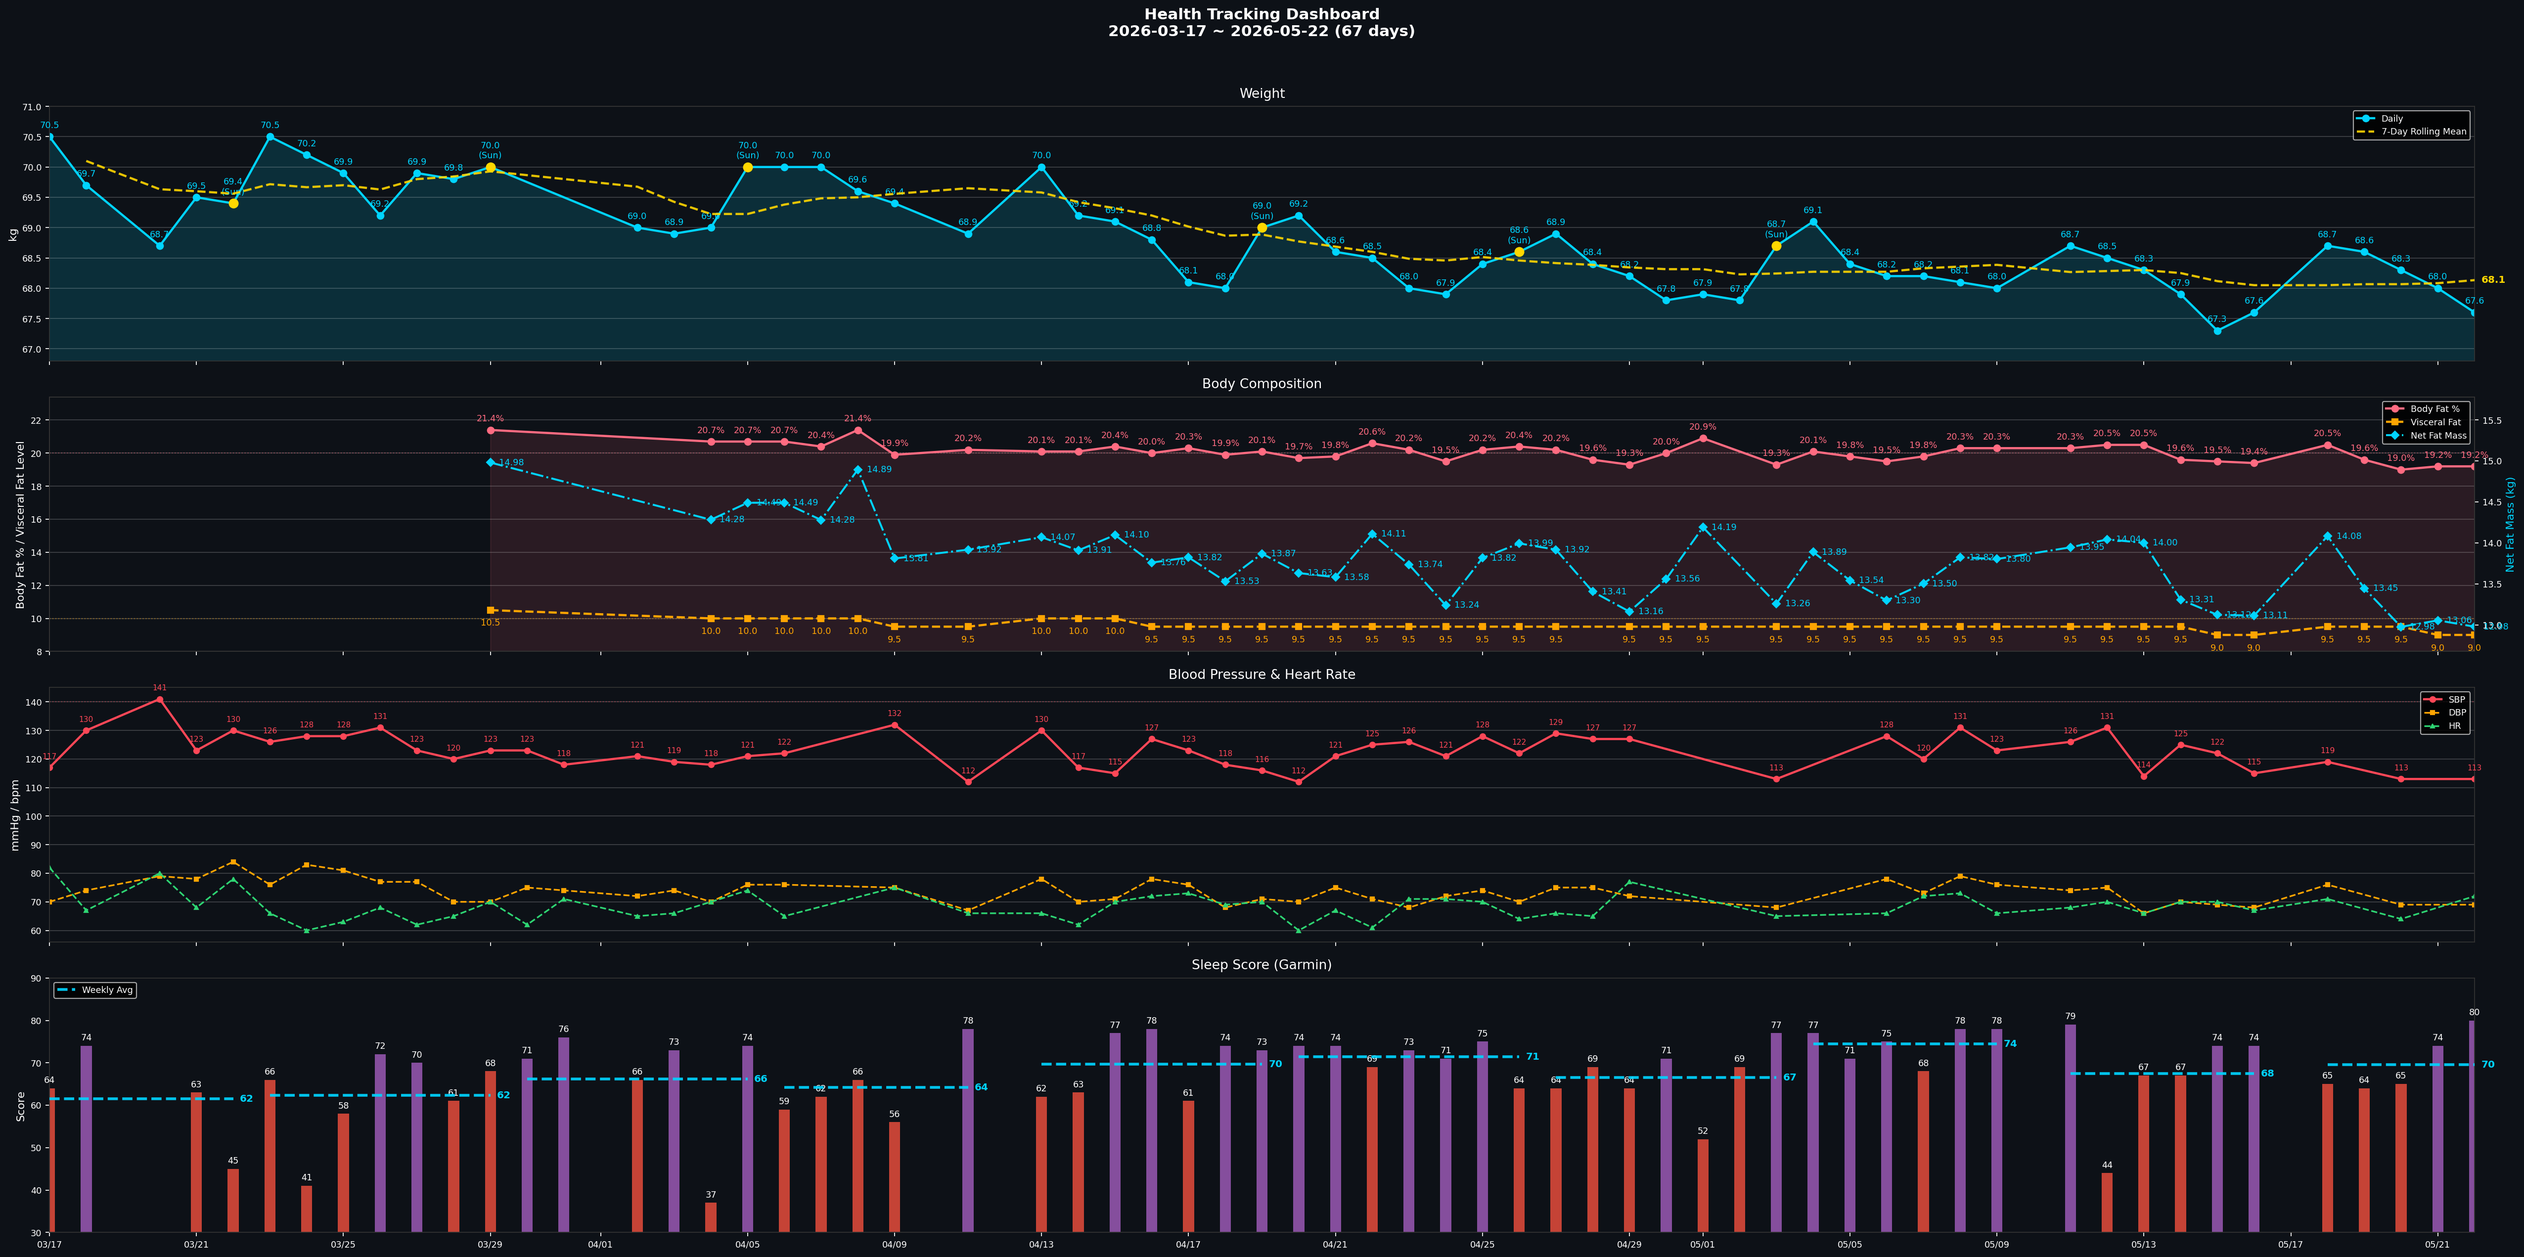
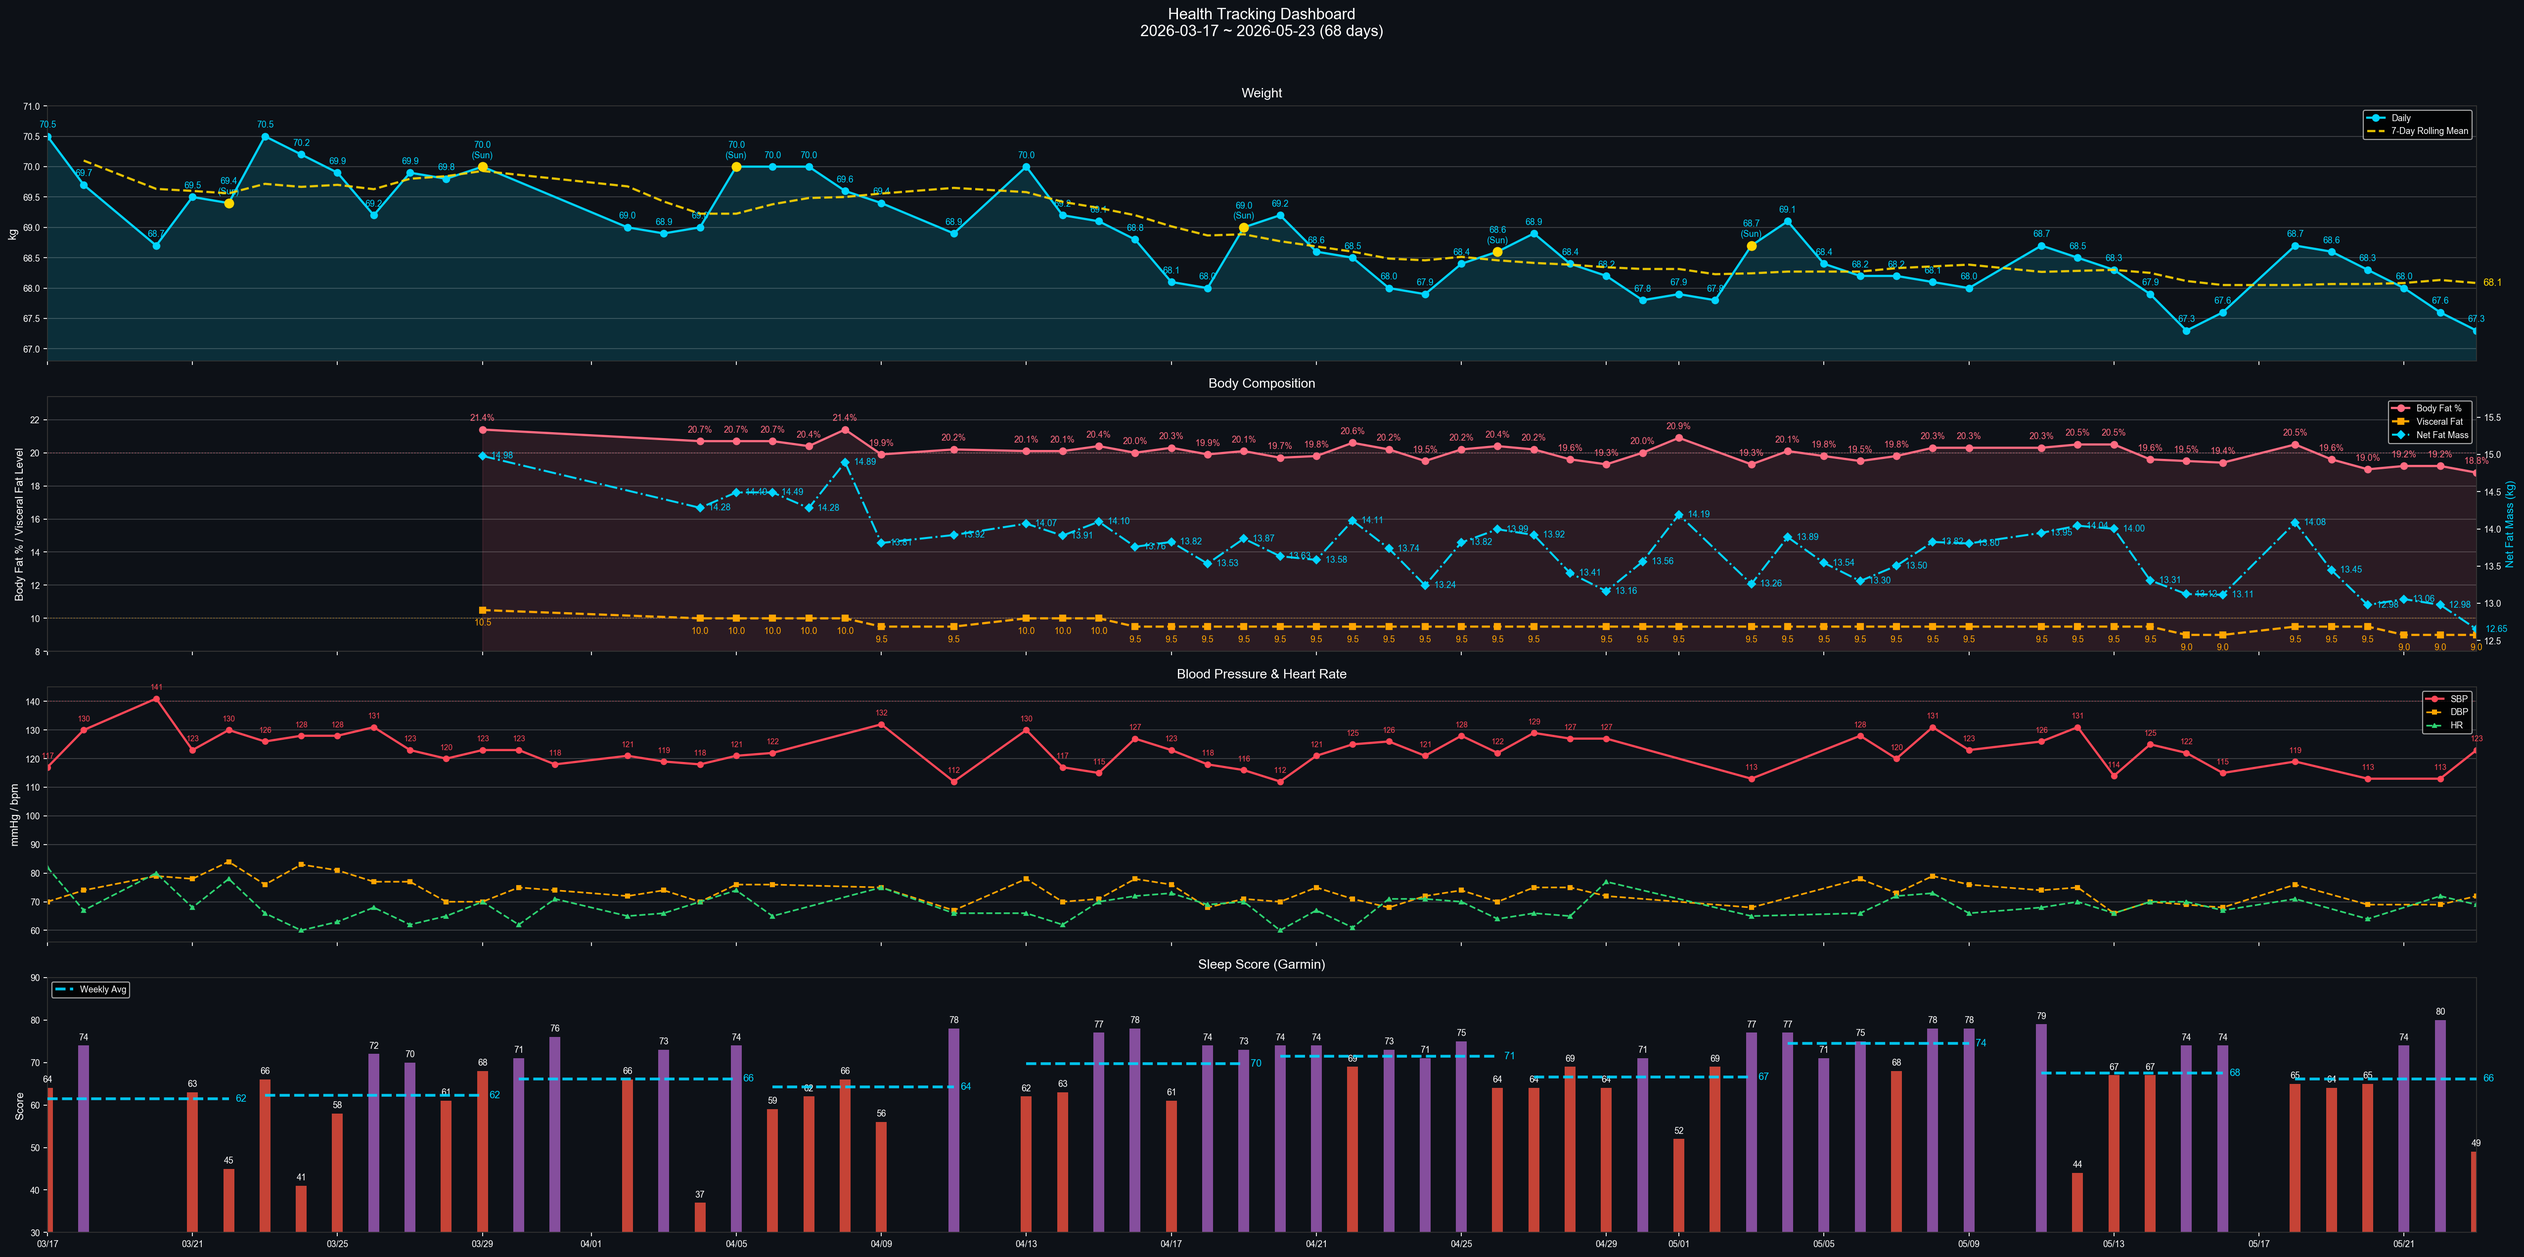
daily health log 2026-05-23

diff --git a/data.js b/data.js
@@ -14,12 +14,12 @@ window.HC_DATA = {
     lede:    { en: "Sleep, BP, lipids, uric acid — one shared metabolic root. Lifestyle stacks first; medication only after lifestyle plateaus.",
                zh: "睡眠、血壓、血脂、尿酸——共享同一個代謝根源。生活方式介入優先，等到效果平台期再考慮藥物。" },
     progressLbl: { en: "Weight progress · 70 → 65 kg", zh: "體重進度 · 70 → 65 公斤" },
-    progressMeta: { en: "Day 67 · 67.6 kg · Sat official (5/16)", zh: "第 67 天 · 67.6 公斤 · 週六正式（5/16）" },
-    startDate: { en: "Start date · Mar 17, 2026 · Last sync 5/22", zh: "起始日期 · 2026 年 3 月 17 日 · 最後同步 5/22" },
+    progressMeta: { en: "Day 68 · 67.3 kg · Sat official (5/23)", zh: "第 68 天 · 67.3 公斤 · 週六正式（5/23）" },
+    startDate: { en: "Start date · Mar 17, 2026 · Last sync 5/23", zh: "起始日期 · 2026 年 3 月 17 日 · 最後同步 5/23" },
     startWeight: 70,
     targetWeight: 65,
-    currentWeight: 67.6,
-    currentWeightDate: "5/16 Sat official",
+    currentWeight: 67.3,
+    currentWeightDate: "5/23 Sat official",
   },
 
   // ===== OSA red-flag banner =====
@@ -44,21 +44,21 @@ window.HC_DATA = {
     {
       sys: "heart", name: { en: "Blood Pressure", zh: "血壓" },
       val: "122/70", unit: "mmHg",
-      delta: { en: "W20 weekly avg (6 days) · target met (<130) · last 113/69 (5/22)", zh: "W20 週均（6 天）· 已達標 (<130) · 最新 113/69 (5/22)" },
+      delta: { en: "W20 weekly avg (6 days) · target met (<130) · last 123/72 (5/23)", zh: "W20 週均（6 天）· 已達標 (<130) · 最新 123/72 (5/23)" },
       cadence: { en: "Daily · weekly avg", zh: "每日 · 週均" },
       status: "ok",
     },
     {
       sys: "sleep", name: { en: "Sleep Score", zh: "睡眠分數" },
-      val: "80", unit: "Garmin",
+      val: "49", unit: "Garmin",
       delta: { en: "5/4 · OSA flag: T90 18.4% (severe)", zh: "5/4 · OSA 紅旗：T90 18.4%（重度）" },
       cadence: { en: "Daily · Garmin", zh: "每日 · Garmin" },
       status: "warn",
     },
     {
       sys: "weight", name: { en: "Weight", zh: "體重" },
-      val: "67.6", unit: "kg",
-      delta: { en: "5/16 Sat official · auto-synced", zh: "5/16 週六正式 · 自動同步" },
+      val: "67.3", unit: "kg",
+      delta: { en: "5/23 Sat official · auto-synced", zh: "5/23 週六正式 · 自動同步" },
       cadence: { en: "Daily · Sat official", zh: "每日 · 週六正式" },
       status: "ok",
     },
@@ -918,14 +918,14 @@ window.HC_DATA = {
   tracker: {
     // [SBP, DBP] — gaps filled with prior reading
     bp: [
-      [120,73], [131,79], [123,76], [126,74], [131,75], [114,66], [125,70], [122,69], [115,68], [119,76], [119,76], [113,69], [113,69], [113,69],
+      [131,79], [123,76], [126,74], [131,75], [114,66], [125,70], [122,69], [115,68], [119,76], [119,76], [113,69], [113,69], [113,69], [123,72],
     ],
     // daily weight (kg)
-    weight: [68.2, 68.1, 68, 68.7, 68.5, 68.3, 67.9, 67.3, 67.6, 68.7, 68.6, 68.3, 68, 67.6],
+    weight: [68.1, 68, 68.7, 68.5, 68.3, 67.9, 67.3, 67.6, 68.7, 68.6, 68.3, 68, 67.6, 67.3],
     // Garmin Sleep Score
-    sleep:  [68, 78, 78, 79, 44, 67, 67, 74, 74, 65, 64, 65, 74, 80],
+    sleep:  [78, 78, 79, 44, 67, 67, 74, 74, 65, 64, 65, 74, 80, 49],
     // Body Battery waking
-    bb:     [47, 37, 48, 55, 36, 42, 34, 51, 63, 48, 62, 54, 61, 56],
+    bb:     [37, 48, 55, 36, 42, 34, 51, 63, 48, 62, 54, 61, 56, 34],
     // SpO2 nightly nadir % (last 14 days, parallel to bp/weight/sleep/bb).
     // Earlier nights null until sync_data_js.py backfills; banner only uses trailing values.
     spo2Nadir: [null, null, null, null, null, 84, 79, 87, 85, 84, 84, 86, 82, 84],

diff --git a/reviews/daily/2026-05-23.md b/reviews/daily/2026-05-23.md
@@ -1,0 +1,150 @@
+# 晨間健康紀錄 — 2026-05-23
+
+*3 分鐘。起床後立即完成。記錄，不分析。*
+
+---
+
+## 體重
+
+**今日：67.3 kg** ✅ 正式週六紀錄
+**體脂率：18.8 %**
+**內臟脂肪等級：9.0**
+
+*vs 上週六 5/16 official 67.6 / 19.6 / 9.5 → **−0.3 kg / −0.8% / −0.5 VFL** ✅ 全面進步*
+*vs 5/22 (昨日) 67.6 / 19.2 / 9.0 → −0.3 kg / −0.4% / 持平*
+
+*每週六早晨為正式紀錄（排尿後、進食前；連 5 個工作日後、週末大餐前的真實低點）。其他日可選填。*
+
+---
+
+## 血壓（晨間）
+
+*起床後 1 小時內，上完廁所、進食前。坐下安靜 5 分鐘，連量兩次取第二次。*
+
+| 次數 | 收縮壓 | 舒張壓 | 心率 |
+|------|--------|--------|------|
+| 第一次 | | | |
+| 第二次 | 123 | 72 | 69 |
+
+---
+
+## 睡眠狀態
+
+**Garmin 偵測入睡：** 21:33
+**實際上床：**
+**實際起床：** 01:56 ⚠ 極端早醒
+**TST：** 4h 10m ⚠（深眠 84 分 / **REM 0 分** 🔴）
+**中途醒來：** **多次** ⚠（原因：改變睡姿 — 網球 T-shirt 強制翻身觸發 arousal）
+**Garmin Sleep Score：** 49 / 100 🔴 過去 5 天最低
+**Garmin Body Battery 起床值：** 34 🔴
+**主觀恢復感：** 2 / 5 ⚠（1=極度疲憊, 5=精力充沛）
+**RHR：** 61 bpm｜**日均壓力：** 22
+**入睡 latency：**（自動估算，範圍 LO–HI 分）
+
+### SpO2 夜間最低（7 晚趨勢）
+
+| 日期 | -6 | -5 | -4 | -3 | -2 | -1 | 今晨 |
+|------|----|----|----|----|----|----|------|
+| 日期 | 5/17 | 5/18 | 5/19 | 5/20 | 5/21 | 5/22 | 5/23 |
+| 最低 % | 86 | 87 | 83 | 84 | 83 | 79 | 84 |
+
+**今晨日均 SpO2：** 94.0%（睡眠平均 93.0%）⚠ 顯著下降（過去 5 晚平均 96-97%）
+**< 88% 連續晚數：** 12+（瞬間秒級值）
+
+## 🔴🔴 OSA 三大紅旗全部觸發
+
+| 紅旗門檻 | 今晨值 | 倍數 |
+|---|---|---|
+| T90 > 10% | **32.1%** | 🔴 **3.2× 超標** |
+| 任何 event > 15 分 | 最長 **32 分** | 🔴 **2.1× 超標** |
+| 任何 event 最低 < 80% | **79%** | 🔴 觸及 |
+
+**Desat events：** 11 段（1 段 🔴 重度 / 5 段 🟡 紅旗 / 1 段 🟠 中度 / 4 段 🟢 邊緣）
+- 22:11–22:42 (32 分, 87%, 🟡)
+- 22:45–22:58 (14 分, **79%**, 🔴 重度)
+- 23:04–23:13 (10 分, 83%, 🟠)
+- 介入後仍持續，**前 2 小時集中發作** = REM-related + retropalatal/retroglossal 塌陷 typical
+
+**SpO2 全夜圖：** reviews/daily/spo2/spo2_desat_2026-05-23.png
+
+*Sleep Score < 65 或 Body Battery < 50 連續三天 → 重新檢視睡眠修復方案。*
+
+---
+
+## 昨日回顧
+
+**實際飲水量：** 2.10 L 🟡（目標 ≥ 2.5L；昨日略低）
+**昨日步數：** 15,650 ✅（壓力日均 33）
+**昨日活動消耗：** 438 kcal 含 BMR / 366 kcal 主動（walking 26 分 + indoor_cardio 17 分 + cycling 10 分；5 段共 54 分）
+  - > 300 kcal → 今日可彈性增加 200-300 kcal 攝取
+  - < 100 kcal → 今日加強運動（補一段 Zone 2 走路 30 分）
+**昨日 Na / K / Na-K ratio：** [ ] mg / [ ] mg / [ ]（自動讀自 `scripts/analyze_nutrition.py --date YYYY-MM-DD`）
+  - Na/K < 0.5 ✅ / 0.5-0.6 🟢 / 0.6-0.8 🟡 / > 0.8 🟠（INTERSALT 1988）
+  - 連 3 天 ≥ 0.8 → 首選減鈉（自煮蛋取代茶葉蛋 −440 mg）或加 K（香蕉 +422 mg）
+
+---
+
+## 身體信號
+
+*任何張力、疼痛、疲勞、異常 — 或「清」。記位置、性質、強度。*
+
+| 部位 | 性質 | 強度 (0-10) |
+|------|------|-------------|
+| 清 | — | — |
+
+---
+
+## 今日計畫速記
+
+- [ ] 飲水目標：2.5 L（建議 2.5–3.0L；錨點 09:30 ≥1.0L / 13:30 ≥2.0L / 17:00 截止 2.5L）
+- [ ] 補充品（核心，2026-05-11 v2）：
+  - 早餐（06:00）：D3 2000 IU + **K2 MK-7 180 mcg** + **L-Citrulline 4 g** + 益生菌
+  - 午餐前 30 min：Psyllium 5 g + 350 mL 水
+  - 晚餐前 30 min：Psyllium 5 g + 350 mL 水
+  - 晚餐後：魚油 ×4（拆 18:30 ×2 + 19:30 ×2）
+  - 睡前（21:00）：鎂甘胺酸 400 mg + 酸櫻桃 1000-2000 mg + **Glycine 純粉 3 g**（起步 1.5 g × 3 晚）
+  - 茶飲：洛神花 ×2 杯（早 + 14:00 前）
+  - 食物層：南瓜籽 30 g（15:30）+ **菇蕈 100-130 g/天**（午 30-50 + 晚 50-80）
+  - ⏸ 待定：NAC 600 mg × 2（待 PSG 結果）
+- [ ] 運動（17:00 固定）：走路 (Zone 2)
+- [ ] 活動度/伸展（09:30 + 20:30 兩次錨點）：全身伸展（兩次錨點）
+- [ ] Wind-down（20:00 燈光降 + 螢幕濾鏡，液體截止）
+- [ ] 上床 21:30 / 熄燈 22:00（TST 目標 7h+）
+
+---
+
+## 🔴 數據解讀（重要修正）
+
+**昨晚為網球 T-shirt（POSA Level 2）首晚或第 3 晚執行**，使用者主觀回報：「多次醒來因為改變睡姿」。
+
+### 三種可能的解讀（互斥需釐清）
+
+| 假設 | 證據 | 推論 |
+|---|---|---|
+| **A. 介入引起的 fragmentation** | 多次 arousal、TST 4h10m、REM 0 分、Score 49 | 網球壓背 → 翻身不適 → 強制 arousal → 睡眠破碎 → 無法進入 REM cycle |
+| **B. OSA event 同步惡化** | T90 32.1%、最長 32 分 desat、nadir 79% | 阻塞嚴重度本身達紅旗，與介入無關 |
+| **C. A + B 共同作用** | 11 段 desat 集中於 22:11–23:23（前 2 小時），之後變鬆 | 早段：仰睡 → 阻塞 → 網球觸發 arousal → 翻身。後段：翻身後事件減少 |
+
+**最可能：C（複合）**。網球療法觸發頻繁 arousal，但每次 arousal 前有 desat → **網球只是把「無意識」desat 變成「有意識」arousal**，並未 prevent 阻塞本身。Permut 2010 證據成立的 POSA 對象，desat 主要發生在仰躺；本案 desat 也在側躺發生（22:45-22:58 段最低 79%）→ **非 pure positional**。
+
+### 介入結論（5 晚試驗，截至 5/23）
+
+- ❌ **網球療法**：5/23 首晚明顯導致 fragmentation；若 desat 仍持續可視為 negative trial
+- ❌ **楔形枕**：fidelity 不穩定（之前已記錄人會翻離）
+- ❌ **生理食鹽水洗鼻**：5/19 起，T90 趨勢 2.2 → 4.0 → 4.2 → ? → 32.1，無改善反惡化
+- ⚪ **抹茶 / 藍莓 / glycine**：無直接 desat 影響觀測
+
+### 🔴 必行動作（不可延後）
+
+1. **本週敲定 PSG 預約日期** — 居家介入已系統性試驗失敗，必須 gold standard 診斷
+2. **今晚暫停網球 T-shirt** — 避免介入引起的 fragmentation 污染 baseline 數據
+3. **保留楔形枕 + 洗鼻 + 抹茶 + 藍莓**作為 daily life style
+4. **白天減壓** — 主觀 2/5 + BB 34 + REM 0 → 今日嚴重恢復不足，**所有訓練降級為散步 + 伸展**，禁止 indoor_cardio 或 cycling
+
+---
+
+💡 PT 建議：今晨數據觸發 OSA **三大紅旗全部觸發**（T90 32.1% / 最長 desat 32 分 / nadir 79%），但**關鍵脈絡是網球 T-shirt 首晚實測導致「多次睡姿變動 arousal」** — 數據崩盤是「真實 OSA 嚴重度 + 介入引起的 fragmentation」雙重作用。**結論：居家介入 5 晚試驗系統性失敗，PSG 必須本週敲定預約**，不再用任何居家變因（網球、楔形、洗鼻）作為延遲依據。今日 BB 34 + REM 0 + 主觀 2/5 = 嚴重恢復不足，**今日訓練全部降級為散步 + 伸展**，禁止任何 indoor_cardio / cycling 強度動作。亮點：體重 −0.3 kg / 體脂 −0.8% / 內臟 −0.5 vs 上週六，**體組成領先半年計畫 4 週**，證明 OSA 不是「胖出來的」— upper airway anatomy 為主導因素，PSG 之後可能需 MAD / CPAP 而非僅減重。
+
+---
+
+*Filed: reviews/daily/2026-05-23.md*

diff --git a/reviews/weekly/2026-W21.md b/reviews/weekly/2026-W21.md
@@ -31,9 +31,9 @@
 
 |  | 一 | 二 | 三 | 四 | 五 | 六 | 日 |
 |--|----|----|----|----|----|----|-----|
-| 體重 (kg) | 68.7 | 68.6 | 68.3 | 68.0 | 67.6 | | |
-| 體脂率 (%) | 20.5 | 19.6 | 19.0 | 19.2 | 19.2 | | |
-| 內臟脂肪 | 9.5 | 9.5 | 9.5 | 9.0 | 9.0 | | |
+| 體重 (kg) | 68.7 | 68.6 | 68.3 | 68.0 | 67.6 | 67.3 | |
+| 體脂率 (%) | 20.5 | 19.6 | 19.0 | 19.2 | 19.2 | 18.8 | |
+| 內臟脂肪 | 9.5 | 9.5 | 9.5 | 9.0 | 9.0 | 9.0 | |
 | **腰圍 WHO (cm)** | | | | | 83* | | |
 | **腰圍 max (cm)** | | | | | — | | |
 
@@ -56,7 +56,7 @@
 | 5/20 (三) | 113 | 69 | 64 |
 | 5/21 (四) | NA | NA | NA |
 | 5/22 (五) | 113 | 69 | 72 |
-| 5/23 (六) | | | |
+| 5/23 (六) | 123 | 72 | 69 |
 | 5/24 (日) | | | |
 
 **本週平均：** _____ / _____ mmHg，心率 _____ bpm
@@ -74,7 +74,7 @@
 | 5/20 (三) | 21:28 | 03:49 | 無 | 65 | 54 | 3 |
 | 5/21 (四) | 21:22 | 04:07 | 無 | 74 | 61 | 2 |
 | 5/22 (五) | 21:41 | 05:08 | 1 (03:30) | 80 | 56 | 3 |
-| 5/23 (六) | | | | | | |
+| 5/23 (六) | 21:33 | 01:56 ⚠ | 多次 (網球翻身) | 49 🔴 | 34 🔴 | 2 |
 | 5/24 (日) | | | | | | |
 
 **Sleep Score 週均：** _____ / 100
@@ -105,7 +105,7 @@
 
 | 信號（部位+性質） | 出現天數 | 平均強度 | 趨勢（↑↓→） | 備註 |
 |-------------------|----------|----------|-------------|------|
-| 清 | 5 | — | — | 05-18 / 05-19 / 05-20 / 05-21 / 05-22 |
+| 清 | 6 | — | — | 05-18 / 05-19 / 05-20 / 05-21 / 05-22 / 05-23 |
 
 **反覆出現（≥ 3 天）：** 無
 

diff --git a/reports/daily-garmin/2026-05-22.md b/reports/daily-garmin/2026-05-22.md
@@ -11,14 +11,14 @@
 - RHR：58.0 bpm
 
 ## 壓力
-- 日均：28
+- 日均：33
 
 ## 步數
-- 總計：8,532
+- 總計：15,650
 
 ## SpO2
 - 日均：95.0%
-- 最低：83%
+- 最低：79%
 
 ## 活動
 | 時段 | 類型 | 距離 | 時長 | 平均 HR | 最大 HR | 主動 kcal | 含 BMR |
@@ -26,11 +26,13 @@
 | 07:38 | walking | 0.63 km | 14.1 min | 102 | 112 | 57 | 76 |
 | 08:15 | indoor_cardio | 0.00 km | 17.3 min | 145 | 153 | 163 | 186 |
 | 10:50 | cycling | 1.04 km | 5.3 min | 142 | 152 | 50 | 57 |
-| **小計** | 3 段 | **1.67 km** | **36.6 min** | — | — | **270** | **319** |
+| 12:55 | walking | 0.78 km | 12.0 min | 113 | 124 | 54 | 70 |
+| 17:15 | cycling | 1.13 km | 5.0 min | 130 | 140 | 42 | 49 |
+| **小計** | 5 段 | **3.58 km** | **53.7 min** | — | — | **366** | **438** |
 
 ## 飲水
-- 實際：0.06 L
+- 實際：2.10 L
 - 目標：2.00 L
-- 運動流汗耗水：0.52 L
+- 運動流汗耗水：0.76 L
 
 _Source: data/garmin/2026-05-22.json (gitignored)_

diff --git a/reports/daily-garmin/2026-05-23.md b/reports/daily-garmin/2026-05-23.md
@@ -1,0 +1,27 @@
+# Garmin 每日摘要 — 2026-05-23
+
+## 睡眠
+- 就寢：21:33｜起床：01:56
+- 總時長：4h 10m
+- 深眠：84 分｜REM：0 分
+- Sleep Score：49
+- Body Battery 起床值：34
+
+## 靜息心率
+- RHR：61.0 bpm
+
+## 壓力
+- 日均：22
+
+## 步數
+- 總計：55
+
+## SpO2
+- 日均：94.0%
+- 最低：84%
+
+## 飲水
+- 實際：— （Garmin Connect 未紀錄，請於 check-in 手動輸入）
+- 目標：2.00 L
+
+_Source: data/garmin/2026-05-23.json (gitignored)_
